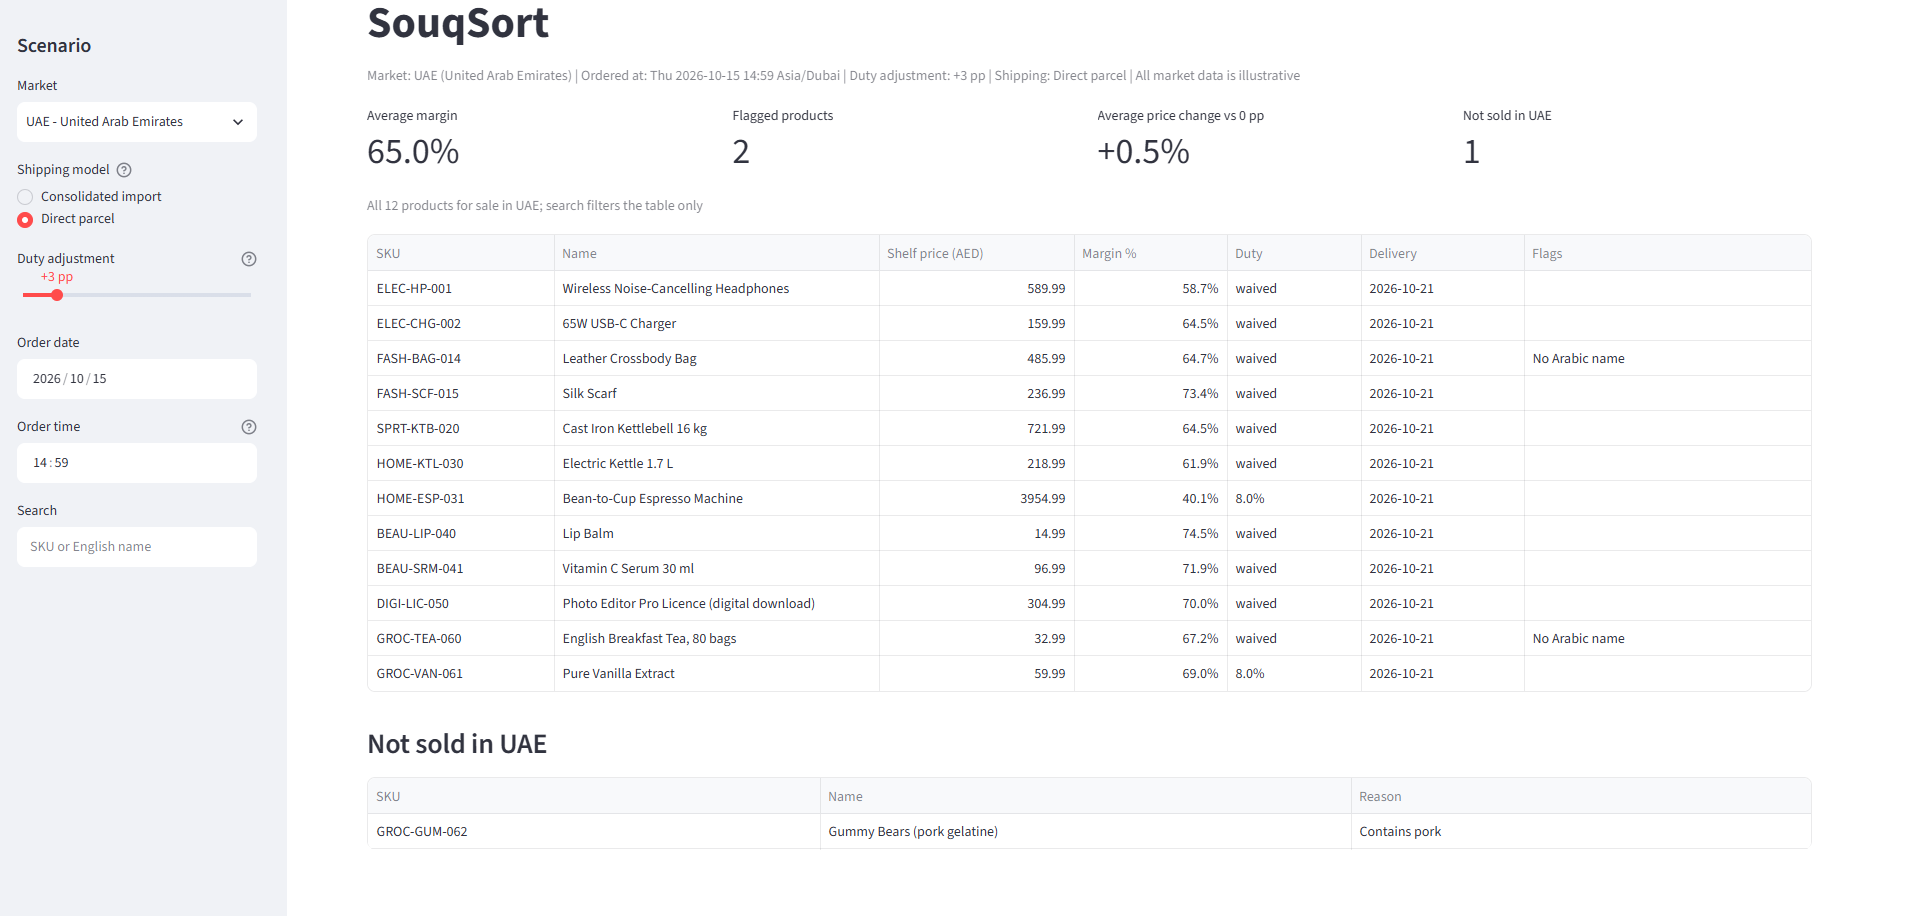
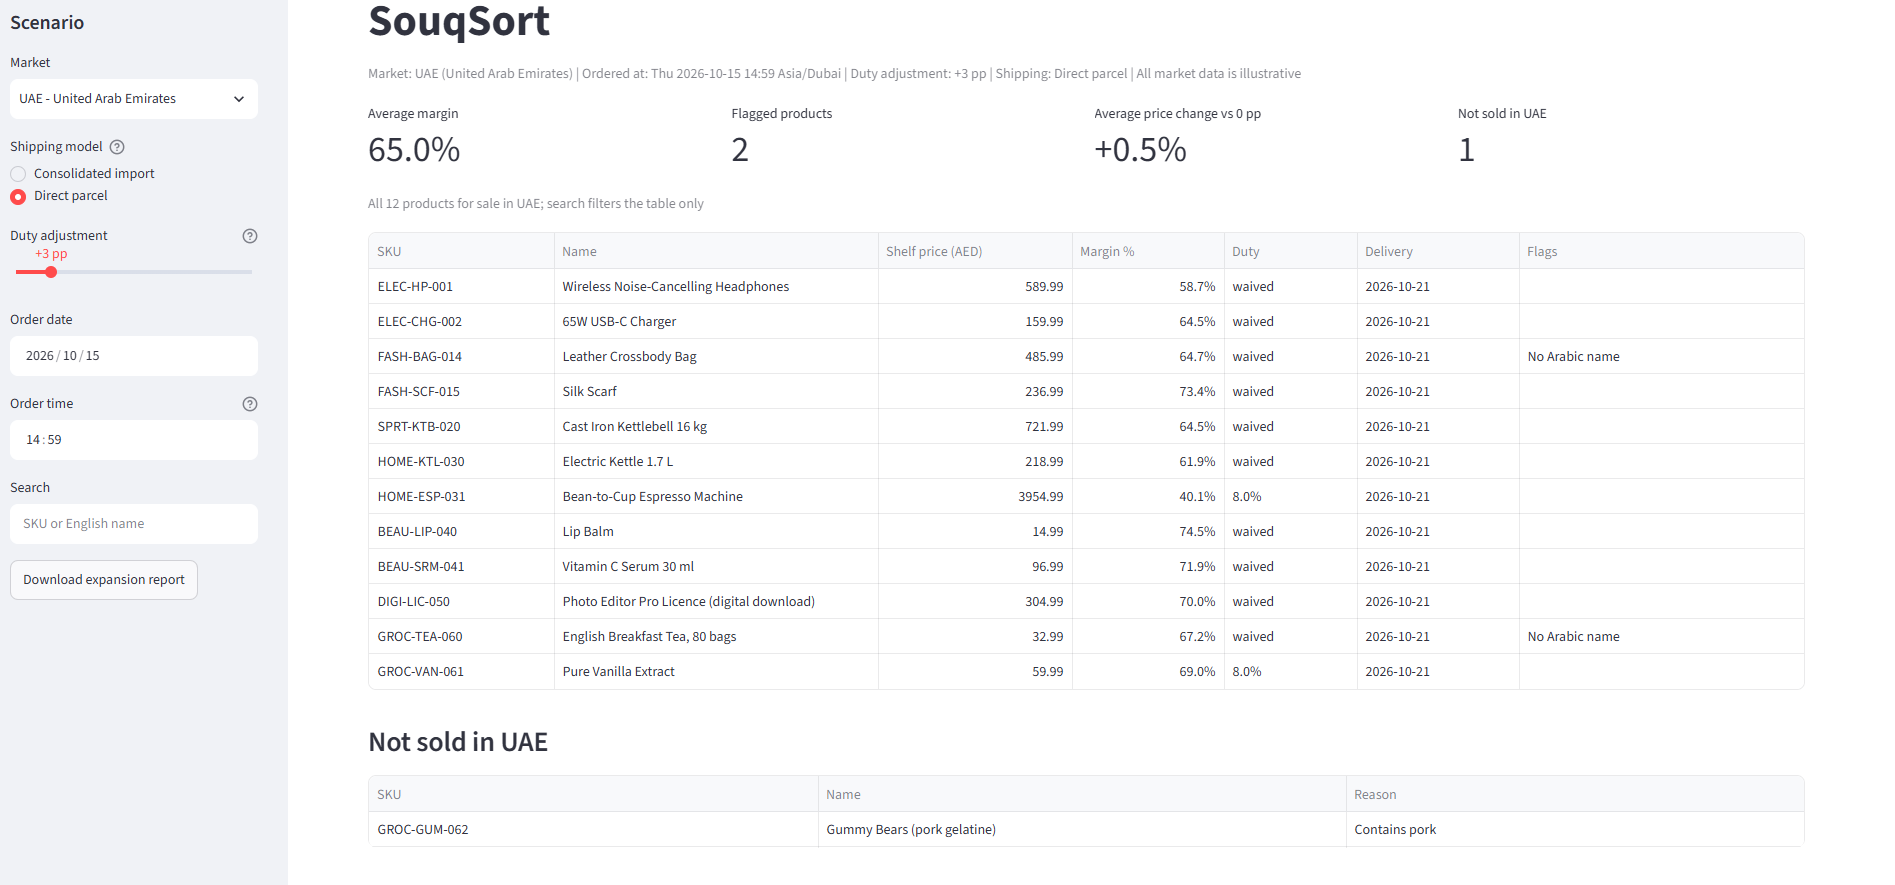
docs: add the expansion report to the README
A section after "Sample run" says what the report covers, how to write
it from the CLI or download it from the dashboard, links the sample
report and quotes three of its findings. The dashboard screenshot is
retaken with the v0.2 scenario so it shows the download button.

diff --git a/README.md b/README.md
@@ -15,7 +15,7 @@ sold, with the reason.
 > costs, holidays, compliance rules and the product catalogue are sample values written for this
 > demo. Do not use them to quote real prices or delivery dates.
 
-![SouqSort dashboard: UAE direct-parcel prices with a +3 pp duty adjustment, duty waived for most products, and the gummy bears listed as not sold](docs/dashboard.png)
+![SouqSort dashboard: UAE direct-parcel prices with a +3 pp duty adjustment, duty waived for most products, the gummy bears listed as not sold, and the expansion report's download button in the sidebar](docs/dashboard.png)
 
 ## Sample run
 
@@ -71,6 +71,33 @@ valuable items get cheaper as parcels and heavy or cheap ones get dearer. In KSA
 from 686.95 to 660.95 SAR, but the 16 kg kettlebell goes from 593.95 to 875.95. Kuwait has no de
 minimis, so a parcel there is never cheaper.
 
+## The expansion report
+
+The dashboard answers one market at a time. The expansion report puts them side by side: for one
+order, it prices the catalogue in every market in the config, under both shipping models, at today's
+duty rates and with tariff rises of 5, 10 and 20 percentage points as stress tests. It shows how one
+price is built in each market, flags prices whose ending adds more than 10%, and lists what each
+market cannot sell, with the reasons. Its only inputs are the data files and the order time, so the
+same order always gives the same file, byte for byte.
+
+```sh
+uv run python -m souqsort report --ordered-at 2026-10-15T09:00Z
+```
+
+This writes `outputs/GCC_EXPANSION_REPORT.md`. `--ordered-at` needs a UTC offset because the report
+covers every market, and defaults to now. In the dashboard, **Download expansion report** in the
+sidebar gives the same report for the order date and time picked there; the duty slider, shipping
+model and search don't change it.
+
+[`docs/GCC_EXPANSION_REPORT.md`](docs/GCC_EXPANSION_REPORT.md) is the report for the sample data,
+for an order on Thursday 15 October 2026 at 09:00 UTC. Three of its findings:
+
+- **Parcels in KSA.** Direct parcels pay no duty on 10 of the 11 products KSA sells, but dearer
+  parcel freight means they are cheaper than consolidated imports for only 6 of them.
+- **A 10 pp tariff rise.** In KSA it lifts average prices by 9.0% for consolidated imports but only
+  0.9% for direct parcels, because de minimis waives the duty on most parcels whatever the rate.
+- **Kuwait's lip balm.** The 0.950 price ending takes it from 1.157 to 1.950 KWD, adding 68.5%.
+
 ## What makes it tricky
 
 - **Money.** `Decimal` throughout, rounded once with `ROUND_HALF_UP`: 0.0005 at 3 decimals gives
@@ -110,6 +137,7 @@ uv sync
 |---|---|
 | Price a market from the CLI | `uv run python -m souqsort price --market KSA` |
 | Price UAE direct parcels | `uv run python -m souqsort price --market UAE --shipping parcel` |
+| Write the expansion report | `uv run python -m souqsort report` |
 | Open the dashboard | `uv run streamlit run app/streamlit_app.py` |
 | Run the tests | `uv run pytest` |
 | Format, lint and type-check | `uv run ruff format --check .`, `uv run ruff check .` and `uv run mypy src` |
